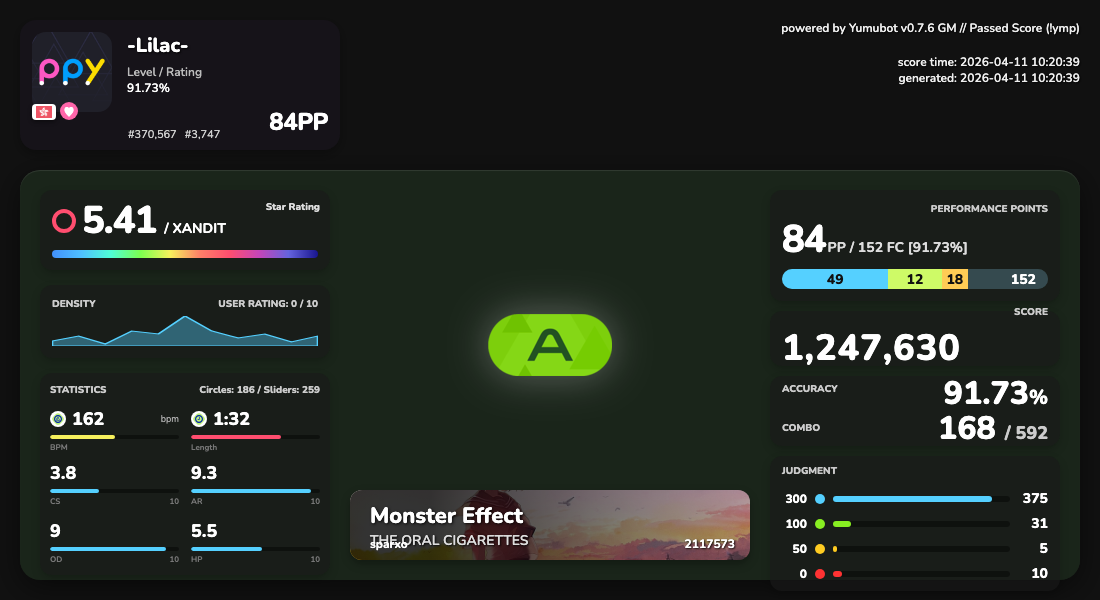
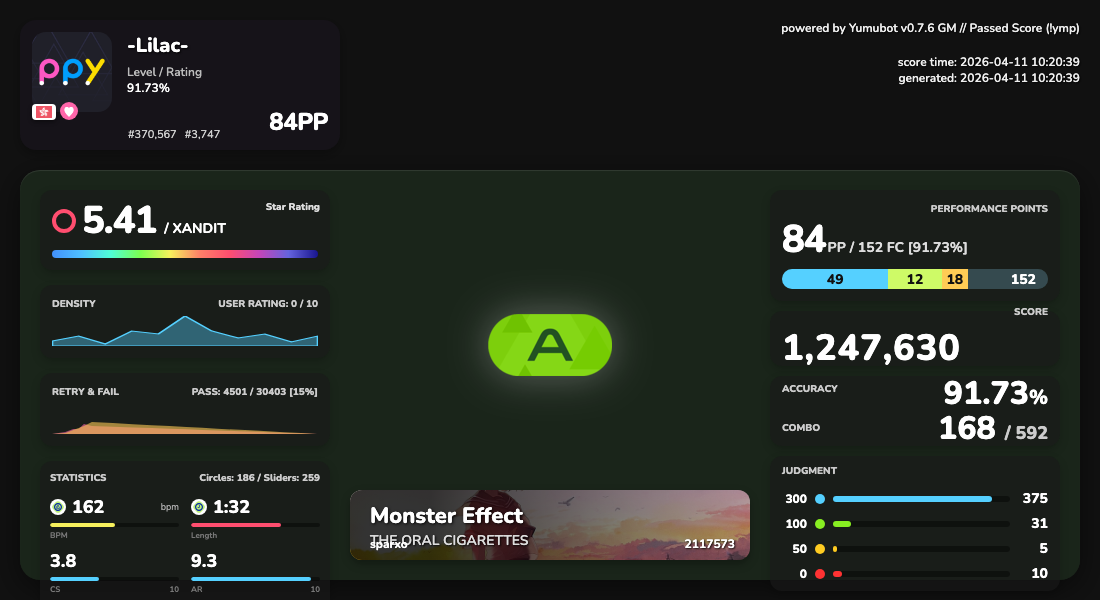
新增retry & fail区块

diff --git a/temp_render.html b/temp_render.html
@@ -8,7 +8,7 @@
         @import url('https://fonts.googleapis.com/css2?family=Torus:wght@400;600;700&family=Nunito:wght@400;600;700;800&display=swap');
 
         :root {
-            --accent: {{ star_color }};
+            --accent: #FF4E6F;
             --text-main: #ffffff;
             --bg-col: rgba(0, 0, 0, 0.45);
             --bg-blur: rgba(20, 25, 20, 0.6);
@@ -41,7 +41,7 @@
         .bg-layer {
             position: absolute;
             top: -20px; left: -20px; right: -20px; bottom: -20px;
-            background: url("{{ bg_url }}") center/cover no-radius no-repeat;
+            background: url("https://assets.ppy.sh/beatmaps/1010401/covers/cover.jpg") center/cover no-radius no-repeat;
             filter: blur(8px) brightness(0.85);
             z-index: 1;
         }
@@ -360,7 +360,7 @@
             position: absolute;
             bottom: 0; left: 0; right: 0;
             height: 70px;
-            background: url("{{ bg_url }}") center/cover;
+            background: url("https://assets.ppy.sh/beatmaps/1010401/covers/cover.jpg") center/cover;
             border-radius: var(--panel-radius);
             overflow: hidden;
             box-shadow: 0 4px 10px rgba(0,0,0,0.3);
@@ -546,33 +546,33 @@
     <div class="header-container">
         <div class="user-panel">
             <div class="avatar-wrap">
-                <img src="{{ avatar_url }}" alt="avatar" class="avatar">
+                <img src="https://a.ppy.sh/2" alt="avatar" class="avatar">
                 <div class="flag-box">
-                    <img src="{{ flag_url }}" class="flag" alt="flag">
+                    <img src="https://osu.ppy.sh/images/flags/HK.png" class="flag" alt="flag">
                 </div>
-                {% if is_supporter %}
+                
                 <div class="heart-icon">♥</div>
-                {% endif %}
+                
             </div>
             
             <div class="user-details">
-                <div class="username-row">{{ user_name }}</div>
+                <div class="username-row">-Lilac-</div>
                 <div class="user-stats">
                     <div style="color: #bbb;">Level / Rating</div>
-                    <div style="color: #fff;">{{ acc }}%</div>
+                    <div style="color: #fff;">91.73%</div>
                 </div>
-                <div class="pp-big">{{ pp }}PP</div>
+                <div class="pp-big">84PP</div>
             </div>
             <div style="position: absolute; bottom: 8px; left: 108px;" class="rank-labels">
-                <span>#{{ global_rank }}</span>
-                <span>#{{ country_rank }}</span>
+                <span>#370,567</span>
+                <span>#3,747</span>
             </div>
         </div>
 
         <div class="header-right">
             powered by Yumubot v0.7.6 GM // Passed Score (!ymp)<br><br>
-            score time: {{ play_time }}<br>
-            generated: {{ play_time }}
+            score time: 2026-04-11 10:20:39<br>
+            generated: 2026-04-11 10:20:39
         </div>
     </div>
 
@@ -590,9 +590,9 @@
                 </div>
                 
                 <div class="sr-row">
-                    <div class="sr-icon" style="border-color: {{ star_color }};"></div>
-                    <span class="sr-value">{{ stars }}</span>
-                    <span class="sr-diff">/ {{ version[:6] }}</span>
+                    <div class="sr-icon" style="border-color: #FF4E6F;"></div>
+                    <span class="sr-value">5.41</span>
+                    <span class="sr-diff">/ Xandit</span>
                 </div>
                 <!-- 谱面评分色带 -->
                 <div class="rainbow-bar"></div>
@@ -615,14 +615,14 @@
             <div class="panel fail-panel">
                 <div style="display:flex; justify-content:space-between;">
                     <span class="panel-label">Retry & Fail</span>
-                    <span class="panel-label">Pass: {{ pass_count }} / {{ play_count }} [{{ pass_percent }}%]</span>
+                    <span class="panel-label">Pass: 4501 / 30403 [15%]</span>
                 </div>
                 
                 <!-- Fail Graph -->
                 <div style="flex:1; display:flex; align-items:flex-end;">
                     <svg width="100%" height="30" preserveAspectRatio="none" viewBox="0 0 100 30" id="fail-graph">
-                        <path d="M0,30 {{ fail_graph_path }} Q100,30 100,30 Z" fill="rgba(255, 102, 170, 0.6)"></path>
-                        <path d="M0,30 {{ retry_graph_path }} Q100,30 100,30 Z" fill="rgba(255, 204, 85, 0.6)"></path>
+                        <path d="M0,30 L5,28 L8,25 L10,25 L12,20 L15,22 Q100,30 100,30 Z" fill="rgba(255, 102, 170, 0.6)"></path>
+                        <path d="M0,30 L5,29 L8,26 L10,24 L12,22 L15,18 Q100,30 100,30 Z" fill="rgba(255, 204, 85, 0.6)"></path>
                     </svg>
                 </div>
             </div>
@@ -630,15 +630,15 @@
             <div class="panel stats-panel">
                 <div style="display:flex; justify-content:space-between;">
                     <span class="panel-label">Statistics</span>
-                    <span class="panel-label" style="text-transform:none;">Circles: {{ circles }} / Sliders: {{ sliders }}</span>
+                    <span class="panel-label" style="text-transform:none;">Circles: 186 / Sliders: 259</span>
                 </div>
                 
                 <div class="stats-grid">
                     <!-- BPM -->
                     <div class="stat-box">
                         <div class="sb-top">
-                            <span class="sb-icon"><img src="{{ assets_dir }}/mapinfo/bpm.svg" style="filter:invert(1);"></span>
-                            <span class="sb-val">{{ bpm }}</span>
+                            <span class="sb-icon"><img src="file:///Users/ryosume/GitHub/astrbot_plugin_osuscore/assets/mapinfo/bpm.svg" style="filter:invert(1);"></span>
+                            <span class="sb-val">162</span>
                             <span class="sb-meta">bpm</span>
                         </div>
                         <div class="sb-bar-bg"><div class="sb-bar-fg" style="width: 50%; background:#f6f05c;"></div></div>
@@ -647,8 +647,8 @@
                     <!-- Length -->
                     <div class="stat-box">
                         <div class="sb-top">
-                            <span class="sb-icon"><img src="{{ assets_dir }}/mapinfo/total_length.svg" style="filter:invert(1)"></span>
-                            <span class="sb-val">{{ time }}</span>
+                            <span class="sb-icon"><img src="file:///Users/ryosume/GitHub/astrbot_plugin_osuscore/assets/mapinfo/total_length.svg" style="filter:invert(1)"></span>
+                            <span class="sb-val">1:32</span>
                         </div>
                         <div class="sb-bar-bg"><div class="sb-bar-fg" style="width: 70%; background:#ff4e6f;"></div></div>
                         <div class="sb-labels"><span>Length</span></div>
@@ -659,33 +659,33 @@
                     <!-- CS -->
                     <div class="stat-box">
                         <div class="sb-top">
-                            <span class="sb-val">{{ cs }}</span>
+                            <span class="sb-val">3.8</span>
                         </div>
-                        <div class="sb-bar-bg"><div class="sb-bar-fg" style="width: {{ cs_percent }}%;"></div></div>
+                        <div class="sb-bar-bg"><div class="sb-bar-fg" style="width: 38%;"></div></div>
                         <div class="sb-labels"><span>CS</span><span>10</span></div>
                     </div>
                     <!-- AR -->
                     <div class="stat-box">
                         <div class="sb-top">
-                            <span class="sb-val">{{ ar }}</span>
+                            <span class="sb-val">9.3</span>
                         </div>
-                        <div class="sb-bar-bg"><div class="sb-bar-fg" style="width: {{ ar_percent }}%;"></div></div>
+                        <div class="sb-bar-bg"><div class="sb-bar-fg" style="width: 93%;"></div></div>
                         <div class="sb-labels"><span>AR</span><span>10</span></div>
                     </div>
                     <!-- OD -->
                     <div class="stat-box">
                         <div class="sb-top">
-                            <span class="sb-val">{{ od }}</span>
+                            <span class="sb-val">9</span>
                         </div>
-                        <div class="sb-bar-bg"><div class="sb-bar-fg" style="width: {{ od_percent }}%;"></div></div>
+                        <div class="sb-bar-bg"><div class="sb-bar-fg" style="width: 90%;"></div></div>
                         <div class="sb-labels"><span>OD</span><span>10</span></div>
                     </div>
                     <!-- HP -->
                     <div class="stat-box">
                         <div class="sb-top">
-                            <span class="sb-val">{{ hp }}</span>
+                            <span class="sb-val">5.5</span>
                         </div>
-                        <div class="sb-bar-bg"><div class="sb-bar-fg" style="width: {{ hp_percent }}%;"></div></div>
+                        <div class="sb-bar-bg"><div class="sb-bar-fg" style="width: 55%;"></div></div>
                         <div class="sb-labels"><span>HP</span><span>10</span></div>
                     </div>
                 </div>
@@ -696,17 +696,17 @@
         <div class="col-mid">
             <!-- 根据 grade 加载贴图 -->
             <div class="big-grade-container">
-                <img src="{{ assets_dir }}/ranking/ranking-{{ grade }}.png" alt="{{ grade }}" class="big-grade-img">
+                <img src="file:///Users/ryosume/GitHub/astrbot_plugin_osuscore/assets/ranking/ranking-A.png" alt="A" class="big-grade-img">
             </div>
 
             <div class="map-banner">
                 <div class="map-banner-overlay">
                     <div class="map-info">
-                        <div class="map-title">{{ title }}</div>
-                        <div class="map-artist">{{ artist }}</div>
+                        <div class="map-title">Monster Effect</div>
+                        <div class="map-artist">THE ORAL CIGARETTES</div>
                     </div>
-                    <div class="map-mapper">{{ mapper }}</div>
-                    <div class="map-extra">{{ map_id }}</div>
+                    <div class="map-mapper">sparxo</div>
+                    <div class="map-extra">2117573</div>
                 </div>
             </div>
         </div>
@@ -718,20 +718,20 @@
                 <div class="panel-label" style="text-align:right;">Performance Points</div>
                 <div class="pp-top">
                     <div>
-                        <span class="pp-main-txt">{{ pp }}</span><span class="pp-sub-txt">PP / {{ pp_if_fc }} FC [{{ acc }}%]</span>
+                        <span class="pp-main-txt">84</span><span class="pp-sub-txt">PP / 152 FC [91.73%]</span>
                     </div>
                 </div>
                 <div class="triple-bar-container">
-                    <div class="tb-aim" style="width: 40%;">{{ pp_aim }}</div>
-                    <div class="tb-acc" style="width: 20%;">{{ pp_acc }}</div>
-                    <div class="tb-spd" style="width: 10%;">{{ pp_speed }}</div>
-                    <div class="tb-rest">{{ pp_if_fc }}</div>
+                    <div class="tb-aim" style="width: 40%;">49</div>
+                    <div class="tb-acc" style="width: 20%;">12</div>
+                    <div class="tb-spd" style="width: 10%;">18</div>
+                    <div class="tb-rest">152</div>
                 </div>
             </div>
 
             <div class="panel score-panel">
                 <div class="panel-label" style="text-align:right;">Score</div>
-                <div class="score-val">{{ score }}</div>
+                <div class="score-val">1,247,630</div>
             </div>
 
             <div class="panel acc-combo-panel">
@@ -740,8 +740,8 @@
                     <div class="panel-label" style="margin-top:20px;">Combo</div>
                 </div>
                 <div class="ac-box">
-                    <div class="ac-val">{{ acc }}<span style="font-size:20px;">%</span></div>
-                    <div class="ac-val">{{ max_combo }} <span class="ac-sub">/ {{ total_combo }}</span></div>
+                    <div class="ac-val">91.73<span style="font-size:20px;">%</span></div>
+                    <div class="ac-val">168 <span class="ac-sub">/ 592</span></div>
                 </div>
             </div>
 
@@ -751,25 +751,25 @@
                     <span class="j-label">300</span>
                     <div class="j-dot" style="background:var(--judge-300);"></div>
                     <div class="j-bar-bg"><div class="j-bar-fg" style="background:var(--judge-300); width: 90%;"></div></div>
-                    <span class="j-val">{{ count_300 }}</span>
+                    <span class="j-val">375</span>
                 </div>
                 <div class="j-row">
                     <span class="j-label">100</span>
                     <div class="j-dot" style="background:var(--judge-100);"></div>
                     <div class="j-bar-bg"><div class="j-bar-fg" style="background:var(--judge-100); width: 10%;"></div></div>
-                    <span class="j-val">{{ count_100 }}</span>
+                    <span class="j-val">31</span>
                 </div>
                 <div class="j-row">
                     <span class="j-label">50</span>
                     <div class="j-dot" style="background:var(--judge-50);"></div>
                     <div class="j-bar-bg"><div class="j-bar-fg" style="background:var(--judge-50); width: 2%;"></div></div>
-                    <span class="j-val">{{ count_50 }}</span>
+                    <span class="j-val">5</span>
                 </div>
                 <div class="j-row">
                     <span class="j-label">0</span>
                     <div class="j-dot" style="background:var(--judge-0);"></div>
                     <div class="j-bar-bg"><div class="j-bar-fg" style="background:var(--judge-0); width: 5%;"></div></div>
-                    <span class="j-val">{{ count_miss }}</span>
+                    <span class="j-val">10</span>
                 </div>
             </div>
 

diff --git a/draw.py b/draw.py
@@ -92,6 +92,11 @@ class ScoreImageGenerator:
             "ar": f"{beatmap_info.get('ar', 0):.1f}",
             "ar_percent": min(100, beatmap_info.get("ar", 0) * 10),
             "sr_percent": min(100, (stars / 10.0) * 100),
+            "pass_count": min(99999, beatmap_info.get("passcount", 0)),
+            "play_count": max(1, beatmap_info.get("playcount", 1)),
+            "pass_percent":  f"{(beatmap_info.get('passcount', 0) / max(1, beatmap_info.get('playcount', 1))) * 100:.0f}",
+            "fail_graph_path": self._generate_graph_path(beatmap_info.get("failtimes", {}).get("fail", [])),
+            "retry_graph_path": self._generate_graph_path(beatmap_info.get("failtimes", {}).get("exit", [])),
             "avatar_url": user_info.get("avatar_url", ""),
             "user_name": user_info.get("username", ""),
             "is_supporter": user_info.get("is_supporter", False),
@@ -118,6 +123,27 @@ class ScoreImageGenerator:
 
         template = self.env.get_template("index.html")
         rendered_html = template.render(**context)
+        return rendered_html
+
+    def _generate_graph_path(self, data: list) -> str:
+        if not data:
+            return ""
+        
+        # Take up to 100 points
+        max_val = max(data) if data else 1
+        if max_val == 0: max_val = 1
+        
+        # Calculate width spacing based on length (map to 0-100)
+        width_step = 100 / max(len(data), 1)
+        
+        path_parts = []
+        for i, val in enumerate(data):
+            x = i * width_step
+            # SVG y goes top to bottom, 30 is base height
+            y = 30 - (val / max_val * 25) 
+            path_parts.append(f"L{x:.1f},{y:.1f}")
+            
+        return " ".join(path_parts)
         
         # 将 HTML 保存到临时文件，由于 playwright async_playwright 打开 file://
         temp_html_path = Path(__file__).parent / f"temp_{score_info.get('created_at', 'score').replace(' ', '_').replace(':', '')}.html"

diff --git a/test_style.py b/test_style.py
@@ -1,0 +1,34 @@
+import asyncio
+from pathlib import Path
+from playwright.async_api import async_playwright
+
+async def main():
+    html_path = Path(__file__).parent / "temp_render.html"
+    async with async_playwright() as p:
+        browser = await p.chromium.launch()
+        page = await browser.new_page(viewport={"width": 1100, "height": 600})
+        await page.goto(f"file://{html_path.resolve()}")
+        
+        # parent container
+        rect = await page.evaluate('''() => {
+            let el = document.querySelector(".triple-bar-container");
+            let rect = el.getBoundingClientRect();
+            return {w: rect.width, h: rect.height, x: rect.x, y: rect.y, display: getComputedStyle(el).display};
+        }''')
+        print(f"Parent: {rect}")
+        
+        # children
+        children = await page.evaluate('''() => {
+            let els = document.querySelectorAll(".triple-bar-container div");
+            return Array.from(els).map(el => {
+                let rect = el.getBoundingClientRect();
+                let style = getComputedStyle(el);
+                return {className: el.className, w: rect.width, h: rect.height, bg: style.backgroundColor, text: el.textContent};
+            });
+        }''')
+        for c in children:
+            print(f"Child: {c}")
+            
+        await browser.close()
+
+asyncio.run(main())

diff --git a/test_html_render.py b/test_html_render.py
@@ -51,7 +51,12 @@ async def main():
         "count_300": "375",
         "count_100": "31",
         "count_50": "5",
-        "count_miss": "10"
+        "count_miss": "10",
+        "pass_count": "4501",
+        "play_count": "30403",
+        "pass_percent": "15",
+        "fail_graph_path": "L5,28 L8,25 L10,25 L12,20 L15,22",
+        "retry_graph_path": "L5,29 L8,26 L10,24 L12,22 L15,18"
     }
 
     # 1. 使用 Jinja2 渲染 HTML
@@ -86,7 +91,7 @@ async def main():
     print(f"图片生成完毕！保存在: {output_path}")
     
     # 清理临时 HTML
-    os.remove(temp_html_path)
+    # os.remove(temp_html_path)
 
 if __name__ == "__main__":
     asyncio.run(main())
